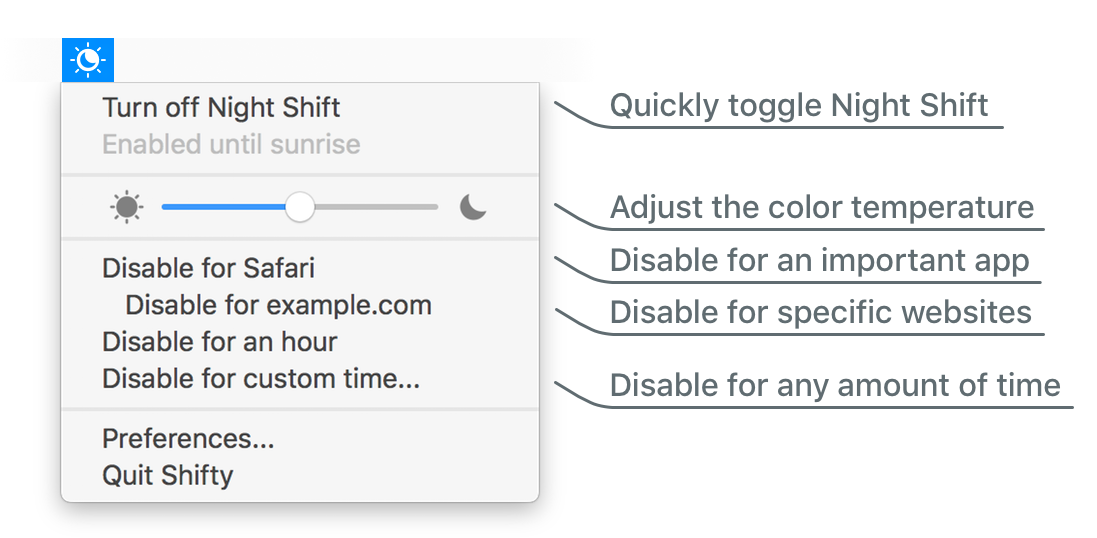
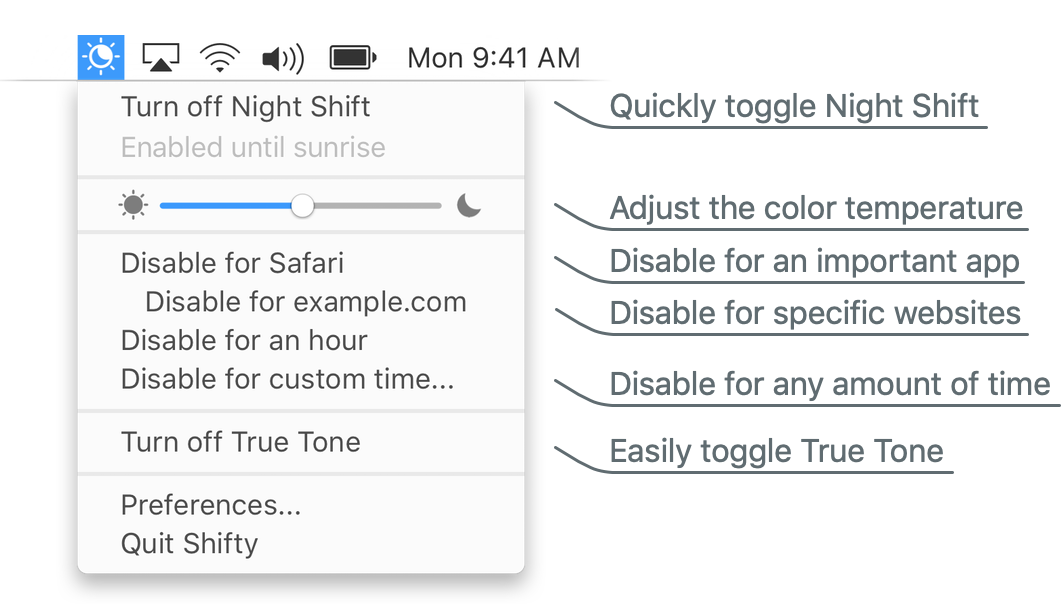
Website 1.0 (#60)
* add Chinese translations

* update app icon and English text

* add German and

* use liquid tags to populate supported lang array

* add updated screenshots

diff --git a/docs/_includes/footer.html b/docs/_includes/footer.html
@@ -1,7 +1,7 @@
 <footer class="site-footer">
   <div class="site-footer-contents">{{ translation.made_by | replace: "MAINSITE_LINK", site.mainsite_link | markdownify | remove: '<p>' | remove: '</p>' }}</div>
   <div class="site-footer-contents">{{ translation.feedback | replace: "MAILTO_LINK", site.mailto_link | markdownify | remove: '<p>' | remove: '</p>' }}</div></span>
-  <!-- <div class="site-footer-contents">{{ translation.language }}
+  <div class="site-footer-contents">{{ translation.language }}
     <select name="language" onchange="location = this.value">
       {% assign pages=site.pages | where:"ref", page.ref | sort: 'lang' %}
 
@@ -11,7 +11,7 @@
       {% if p.lang == "en" %}
       {% assign lang = p_translation.lang_name %}
       {% else %}
-      {% assign lang = p_translation.lang_name | append: " — " | append: p_translation.lang_name_eng %}
+      {% assign lang = p_translation.lang_name | append: " — (" | append: p_translation.lang_name_eng | append: ")" %}
       {% endif %}
 
       {% if p.url == page.url %}
@@ -21,5 +21,5 @@
       {% endif %}
       {% endfor %}
     </select>
-  </div> -->
+  </div>
 </footer>

diff --git a/docs/index.html b/docs/index.html
@@ -7,9 +7,20 @@
 {% include langhead.html %}
 </head>
 
+{% assign pages=site.pages | where:"ref", 'home' | sort: 'lang' %}
+
 <body>
 <script>
-var supported = ['en'];
+var supported = [
+{% assign supportedLangs = pages | map: 'lang' %}
+{% for lang in supportedLangs %}
+  {% if lang == supportedLangs.last %}
+    '{{ lang }}'
+  {% else %}
+    '{{ lang }}',
+  {% endif %}
+{% endfor %}
+];
 var languages = getLangs();
 redirect();
 
@@ -33,8 +44,6 @@ function getLangs(){
 
 <p>If you are not automatically redirected, choose a language:</p>
 <ul>
-  {% assign pages=site.pages | where:"ref", 'home' | sort: 'lang' %}
-
   {% for p in pages %}
   {% assign p_translation = site.data.translations[p.lang] %}
 

diff --git a/docs/_layouts/default.html b/docs/_layouts/default.html
@@ -31,7 +31,7 @@
     <img class="project-icon" src="/images/shifty-color-256.png" alt="Shifty icon">
     <h1 class="project-name">{{ translation.shifty }}</h1>
     <h2 class="project-tagline">{{ translation.tagline }}</h2>
-    <a id="downloadButton" class="btn">{{ translation.download_beta }}</a>
+    <a id="downloadButton" class="btn">{{ translation.download }}</a>
     <a id="view-on-github" href="{{ site.repository_link }}" class="btn">{{ translation.view_github }}</a>
   </section>
 

diff --git a/docs/zh-cn/index.md b/docs/zh-cn/index.md
@@ -4,7 +4,7 @@ layout: default
 ref: home
 lang: zh-cn
 ---
-Shifty 夜览管家为 macOS 内置的夜览模式赋予更多便捷与自定义控制选项。你可以设置在开启特定应用程序后，或在自定义时间段内暂时关闭夜览模式。此外，易于访问的滑块使完善色温变得轻而易举。有了 Shifty 夜览管家，夜览模式得以成为专业用户的天作之合。
+Shifty 夜览管家为 macOS 内置的夜览模式赋予更多便捷与自定义控制选项。 你可为特定应用程序、网站和在自定义时间段暂时关闭“夜览”模式。 此外，易于访问的滑块使完善色温变得轻而易举。 有了 Shifty 夜览管家，“夜览”模式得以成为专业用户的天作之合。
 
 <div id="screenshot-container">
   <img class="shifty-screenshot" src="images/shifty-screenshot-large.png"/>
@@ -12,18 +12,28 @@ Shifty 夜览管家为 macOS 内置的夜览模式赋予更多便捷与自定义
 
 <div class="row prefs-columns">
   <div class="col-sm-6 prefs-text">
-    你也可以自定义 Shifty 夜览管家！启用快速切换功能以一键开启或关闭夜览模式，或根据夜览模式的设定时间自动启用暗色菜单栏和程序坞。此外，你还可以通过设置全局快捷键激活常用的 Shifty 夜览管家功能。
+    你也可以自定义 Shifty 夜览管家！
+    <ul>
+      <li>通过快速开关轻松控制“夜览”模式</li>
+      <li>随“夜览”的设定时间开关深色模式</li>
+      <li>“夜览”模式对应的规则同时适用于“原彩显示”</li>
+      <li>为常用的 Shifty 夜览管家功能设置全局键盘快捷方式</li>
+    </ul>
   </div>
   <div class="col-sm-6">
     <img id="prefs-general" src="images/prefs-general-screenshot.png">
   </div>
 </div>
 
-##### 系统要求：
+##### 系统要求:
+
 * macOS 10.12.4 或更高版本
-* Mac 电脑机型符合[夜览模式的系统需求](https://support.apple.com/zh-cn/HT207513#requirements)
+* Mac 电脑机型符合[夜览模式的系统需求](https://support.apple.com/HT207513#requirements)
+* 网站色温调节支持 Safari 浏览器、Chrome 和 Vivaldi
+* 需要在[兼容“原彩显示”的 Mac](https://support.apple.com/HT208909) 运行 macOS 10.14 或更高版本才能使用相关功能
 
-<br>
-如果你钟爱 Shifty，[向开发者贡献自己的一份捐助]({{ site.donate_link_usd }})。
+<br /> 如果你钟爱并乐于改善 Shifty 夜览管家，[向开发者贡献自己的一份捐助]({{ site.donate_link_usd }})。
 
-Shifty 夜览管家免费且开源，应用程序遵循 [GPLv3 许可协议]({{ site.license_link }}). [在 Github 查看项目源码]({{ site.repository_link }})
+Shifty 夜览管家免费且开源，许可证为 [GPLv3]({{ site.license_link }})。 [通过 GitHub 参与开发]({{ site.repository_link }})
+
+如果网站或应用程序中的翻译存在不妥，请考虑通过[这里](/translate)贡献您的翻译。

diff --git a/docs/de/index.md b/docs/de/index.md
@@ -1,0 +1,39 @@
+---
+title: Shifty - Mehr Kontrolle für Night Shift
+layout: default
+ref: home
+lang: de
+---
+Shifty erweitert die Möglichkeiten der Night-Shift-Funktion in macOS. Night Shift kann für bestimmte Apps, Webseiten und einstellbare Zeiten deaktiviert werden. Der Zugriff auf einen Schieberegler zum genauen Einstellen der Farbtemperatur ist auch verfügbar. Mit Shifty wird Night Shift zur Power-Funktion!
+
+<div id="screenshot-container">
+  <img class="shifty-screenshot" src="images/shifty-screenshot-large.png"/>
+</div>
+
+<div class="row prefs-columns">
+  <div class="col-sm-6 prefs-text">
+    Shifty ist anpassbar!
+    <ul>
+      <li>Vereinfachen Sie das Umschalten von Night Shift mit Schnelles Umschalten</li>
+      <li>Dunkelmodus mit Shiftys Zeitplan setzen</li>
+      <li>Night Shift Regeln beeinflussen auch True Tone</li>
+      <li>Für häufige Shifty-Aktionen globale Tastenkombinationen setzen</li>
+    </ul>
+  </div>
+  <div class="col-sm-6">
+    <img id="prefs-general" src="images/prefs-general-screenshot.png">
+  </div>
+</div>
+
+##### Systemanforderungen:
+
+* macOS 10.12.4 oder höher
+* Das System erfüllt die [Night-Shift-Arforderungen](https://support.apple.com/HT207513#requirements)
+* Webseiten-Shift unterstützt Safari, Chrome und Vivaldi
+* True Tone Funktionen benötigt einen [unterstützten Mac](https://support.apple.com/HT208909) und macOS 10.14 oder höher
+
+<br /> Shifty unterstützen und [spenden]({{ site.donate_link_usd }}), um es noch besser zu machen.
+
+Shifty ist gratis und als Open-Source unter der [GPLv3]({{ site.license_link }}) lizenziert. [Bei GitHub mitwirken]({{ site.repository_link }})
+
+Bei Verbesserungsvorschlägen zu Übersetzungen auf der Webseite oder in der App <a href="/translate">bitte hier mithelfen</a>.

diff --git a/docs/en/index.md b/docs/en/index.md
@@ -12,7 +12,13 @@ Shifty was made to expand the capabilities of the built in Night Shift feature i
 
 <div class="row prefs-columns">
   <div class="col-sm-6 prefs-text">
-    Shifty is customizable! Make it easier to toggle Night Shift with Quick Toggle or set dark mode based on the schedule. For common Shifty actions, you can set global keyboard shortcuts.
+    Shifty is customizable!
+    <ul>
+      <li>Make it easier to toggle Night Shift with Quick Toggle</li>
+      <li>Set dark mode to follow the Night Shift schedule</li>
+      <li>Make Night Shift rules also affect True Tone</li>
+      <li>For common Shifty actions, set global keyboard shortcuts</li>
+    </ul>
   </div>
   <div class="col-sm-6">
     <img id="prefs-general" src="images/prefs-general-screenshot.png">
@@ -22,7 +28,8 @@ Shifty was made to expand the capabilities of the built in Night Shift feature i
 ##### System requirements:
 * macOS 10.12.4 or later
 * System meets the [requirements for Night Shift](https://support.apple.com/HT207513#requirements)
-* Website shifting supports Safari, Chrome, and Vivaldi.
+* Website Shifting supports Safari, Chrome, and Vivaldi
+* True Tone features require a [supported Mac](https://support.apple.com/HT208909) and macOS 10.14 or later
 
 <br>
 If you love Shifty, consider [donating]({{ site.donate_link_usd }}) to help me make it better.
